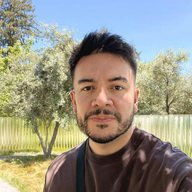
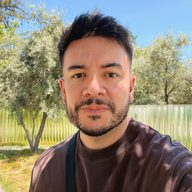
Replace headshot with higher-res photo

diff --git a/src/data/site.ts b/src/data/site.ts
@@ -3,8 +3,8 @@ export const SITE_NAME = "Alejandro Sanabria";
 export const SITE_HANDLE = "alesanabriav";
 export const DEFAULT_IMAGE = "/alejandro-sanabria.jpg";
 export const DEFAULT_IMAGE_ALT = "Alejandro Sanabria Villescas at Apple WWDC";
-export const PERSON_PHOTO = "/alejandro-sanabria-villescas.jpg";
-export const PERSON_PHOTO_SMALL = "/alejandro-sanabria-villescas-192.jpg";
+export const PERSON_PHOTO = "/alejandro-sanabria-villescas.jpg?v=20261104";
+export const PERSON_PHOTO_SMALL = "/alejandro-sanabria-villescas-192.jpg?v=20261104";
 export const PERSON_PHOTO_ALT = "Alejandro Sanabria Villescas";
 
 export const profileLinks = {
@@ -44,8 +44,8 @@ export const personImageNode = {
   "@id": personImageId,
   url: absoluteUrl(PERSON_PHOTO),
   contentUrl: absoluteUrl(PERSON_PHOTO),
-  width: 460,
-  height: 460,
+  width: 1200,
+  height: 1200,
   caption: "Alejandro Sanabria",
   name: "Alejandro Sanabria Villescas",
 };
